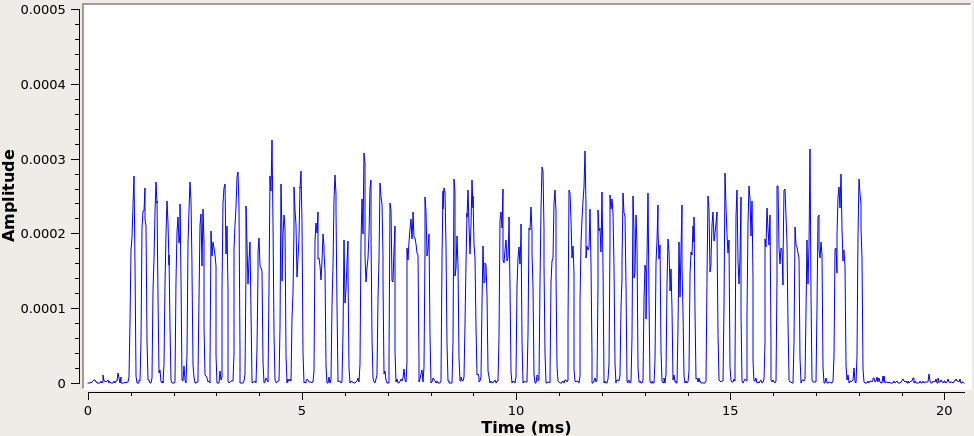
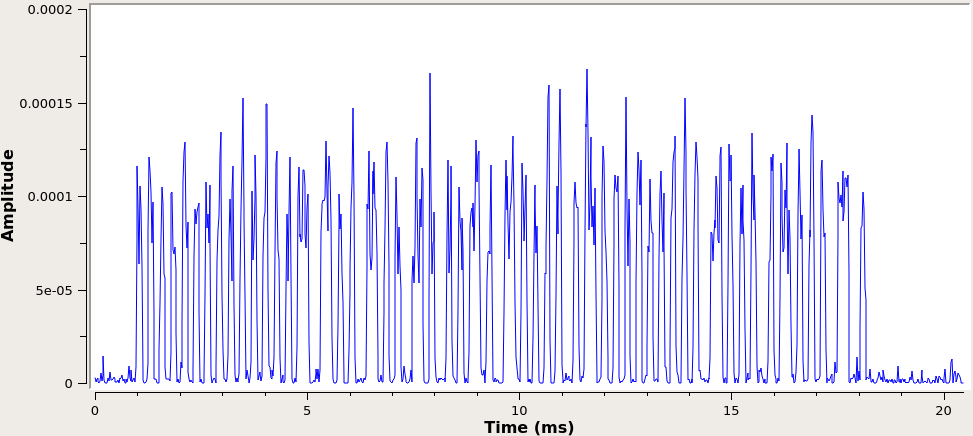
Update documentation to reflect changes to filtering

diff --git a/README.md b/README.md
@@ -1,7 +1,6 @@
 # Soapy345
 A (WIP) 345 MHz sensor receiver based on the [SoapySDR](https://github.com/pothosware/SoapySDR) wrapper for the HackRF One. It is a rewrite of software I wrote previously in Python using GNU Radio.
 Currently, baseline hardware functionality and signal processing functionality is working, but needs some adjustment. Messages are received and verified using the CRC. Messages are used to track sensor state and output readable status change sumamries.
-Next up is to add the ability to process a prerecorded file of IQ samples so that the signal processing implementation can be quickly optimized for accuracy and efficiency with consistent input data quality.
 
 ## Install Dependencies:
 apt install build-essential libsoapysdr-dev soapysdr-module-hackrf
@@ -16,13 +15,18 @@ apt install build-essential libsoapysdr-dev soapysdr-module-hackrf
 ## 3. Baseband Signal
 ![bb unfiltered signal data time domain](doc/bb_signal_time.png)
 ![bb unfiltered signal data freq domain](doc/bb_signal_freq.png)
-Note the lage DC offset due to using a digital diode detector (magnitude squared)
+Note the large DC offset due to using a digital diode detector (magnitude squared).
 
-## 4. Filtered Baseband Signal (DC Remove)
-![bb filtered signal data time domain](doc/bb_filt_signal_time.png)
-![bb filtered signal data freq domain](doc/bb_filt_signal_freq.png)
-With optimal DC offset applied to the signal, a square wave can easily be derived from the zero-crossings
+## 4. Baseband Signal with DC Remove Filtering
+![bb dc remove signal data time domain](doc/bb_dc_rem_signal_time.png)
+![bb filtered signal data freq domain](doc/bb_dc_rem_signal_freq.png)
+With optimal DC offset applied to the signal, a square wave can be derived from the zero-crossings. Note, however, that some high-frequency components may result in detected zero-crossings at undesireable locations in the signal. A lowpass filter can further improve signal integrity.
 
-## 5. Final Square Wave
+## 5. Baseband Signal with Lowpass Filtering
+![bb lpf signal data time domain](doc/bb_lpf_signal_time.png)
+![bb lpf signal data freq domain](doc/bb_lpf_signal_freq.png)
+With high-frequency components filtered out, the signal is much more resilient against undesireable zero-crossings.
+
+## 6. Final Square Wave
 ![final square wave](doc/final_square_wave.png)
-Note that even the low-amplitude noise signal (at the left and right edges of this graphic) results in a square wave due to no threshold detection. This noise data is easily eliminated by comparing it with the expected sync sequence of a sensor transmission.
+Note that even the low-amplitude noise signal results in a square wave due to no threshold detection, as seen at the left and right edges of the desireable transmission shown above. This noise data is easily eliminated by comparing it with the expected sync sequence and CRC value of a sensor transmission.
